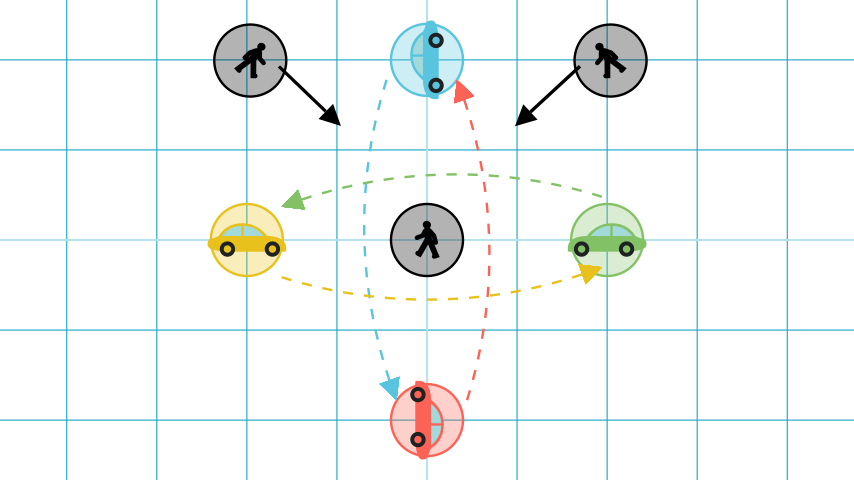
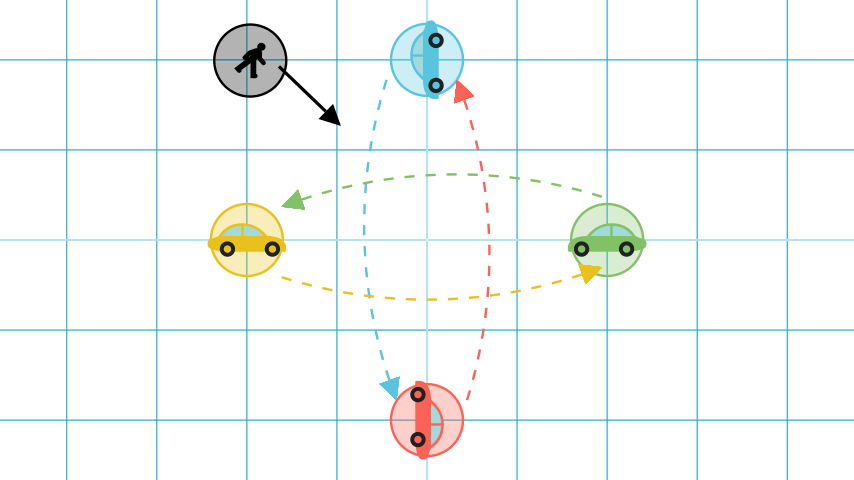
.

Changed region(s): [[0.6089, 0.0312, 0.7611, 0.2812], [0.4567, 0.4062, 0.548, 0.5938]]

diff --git a/car_experiment/manim/car_experiment.py b/car_experiment/manim/car_experiment.py
@@ -105,6 +105,15 @@ class CarExperiment(Scene):
         self.circles = circles
 
         self.current_caption = Tex("")
+
+        # Hide ped 0 and 2
+        self.remove(pedestrians[0])
+        self.remove(pedestrians[2])
+        # self.remove(circles[5])
+        self.remove(circles[6])
+        self.remove(circles[4])
+        self.remove(arrows[1])
+
     def caption(self, message):
         self.remove(self.current_caption)
         self.current_caption = Tex(message).to_corner(RIGHT).set_color(BLACK)
@@ -121,8 +130,7 @@ class Trajectories(CarExperiment):
         self.wait(WAIT_TIME)
 
     def add_trajectory(self):
-
-        sos =pd.read_csv("../csv/computed_trajectory_sos.csv", header=None).values[:, ::1] * UNIT
+        sos = pd.read_csv("../csv/computed_trajectory_sos.csv", header=None).values[:, ::1] * UNIT
         rrt = pd.read_csv("../csv/computed_trajectory_rrt.csv", header=None).values[:, ::1] * UNIT
         self.remove(*self.arrows)
 
